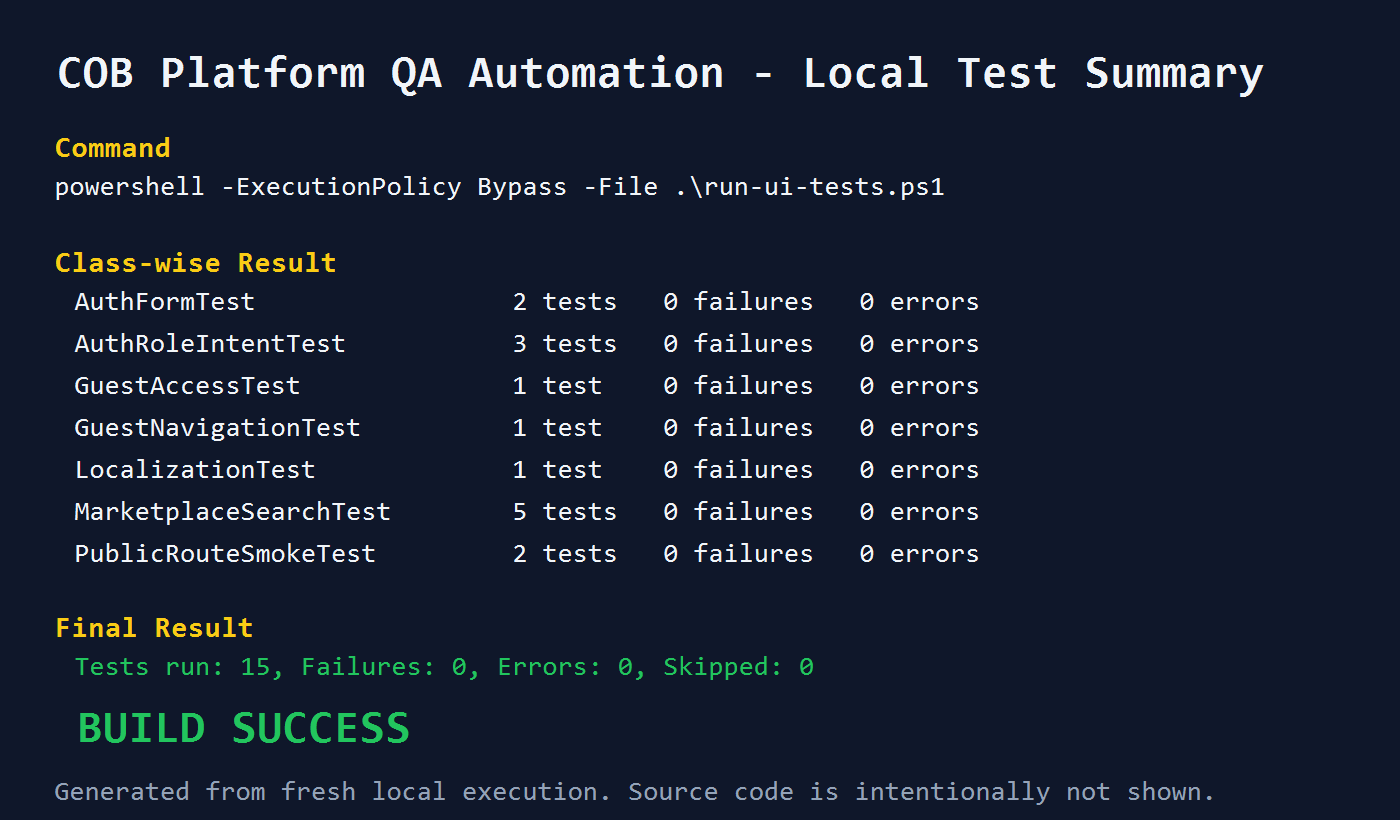
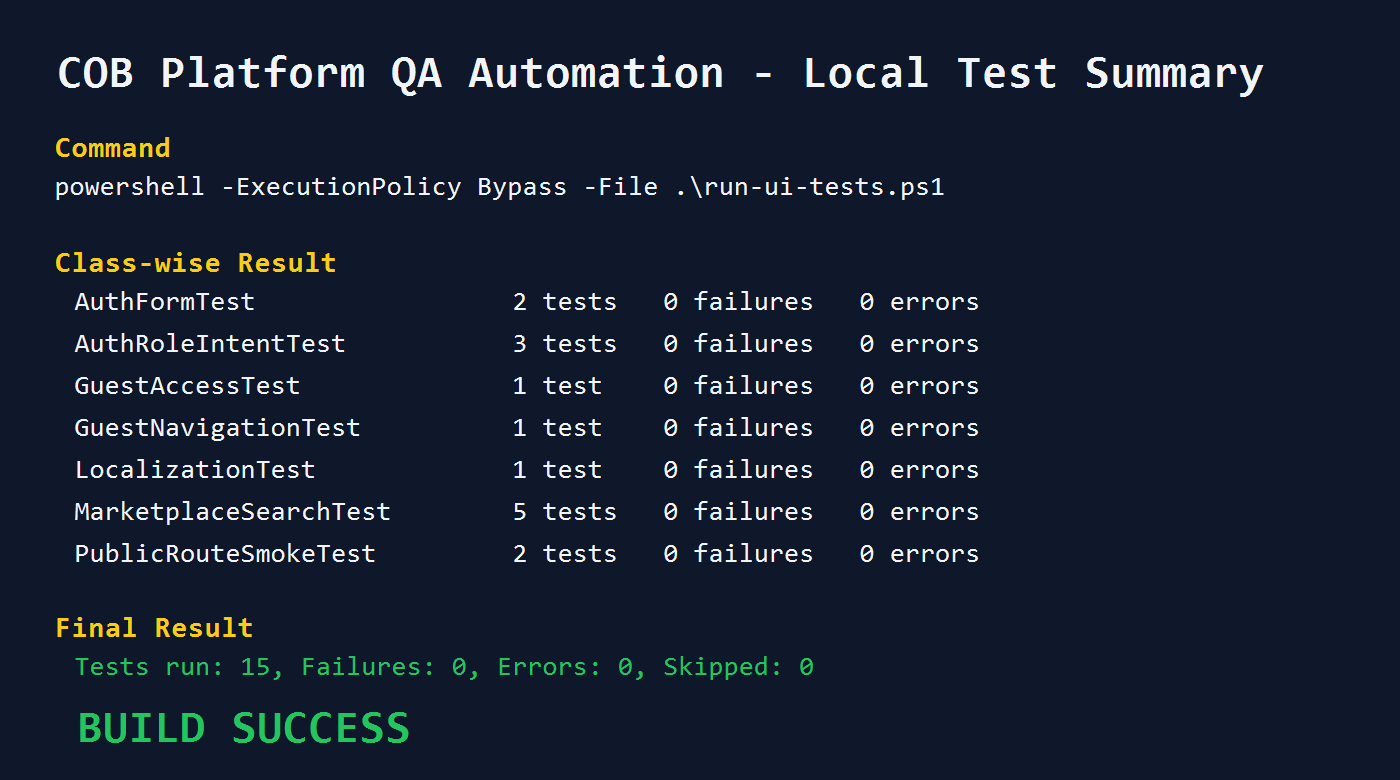
Clean screenshot wording

diff --git a/EXECUTION-SUMMARY.md b/EXECUTION-SUMMARY.md
@@ -48,4 +48,4 @@ Chrome printed Selenium CDP version warnings for browser version 148. The warnin
 
 ## Why Source Is Not Included
 
-This public repository is intentionally documentation-only. The private project contains the actual application and automation source code. The purpose of this repo is to provide a safe resume and LinkedIn case study without exposing proprietary implementation.
+This public repository contains the case study documents only. The private project contains the application and automation source code.

diff --git a/TEST-EXECUTION-LOG.md b/TEST-EXECUTION-LOG.md
@@ -1,6 +1,6 @@
 # Test Execution Log
 
-This is a redacted execution summary from the local Selenium/JUnit run. Machine-specific paths and generated reports are intentionally excluded from the public repository.
+This is a short execution summary from the local Selenium/JUnit run. Machine-specific paths and generated reports are not included in the public repository.
 
 ## Command
 
